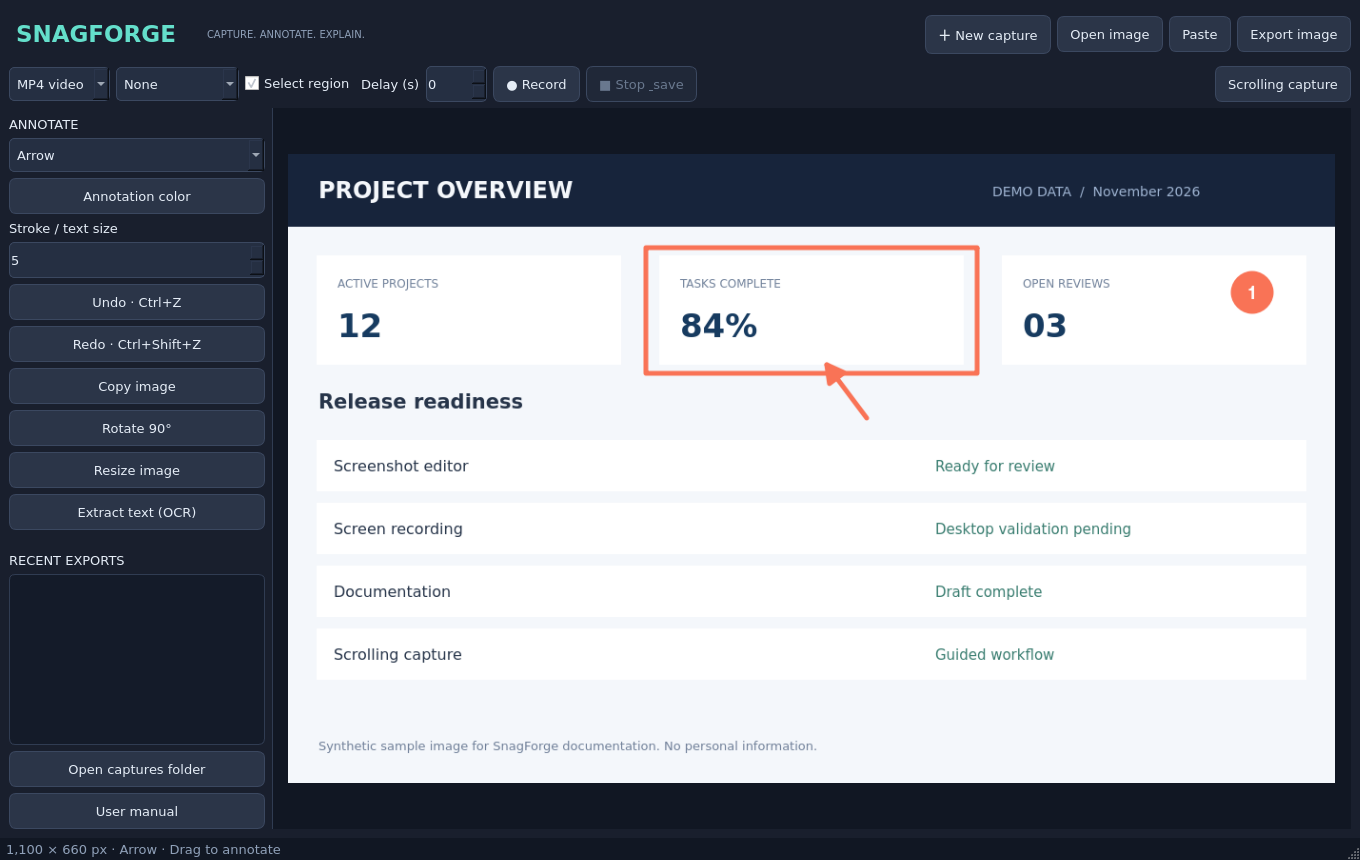
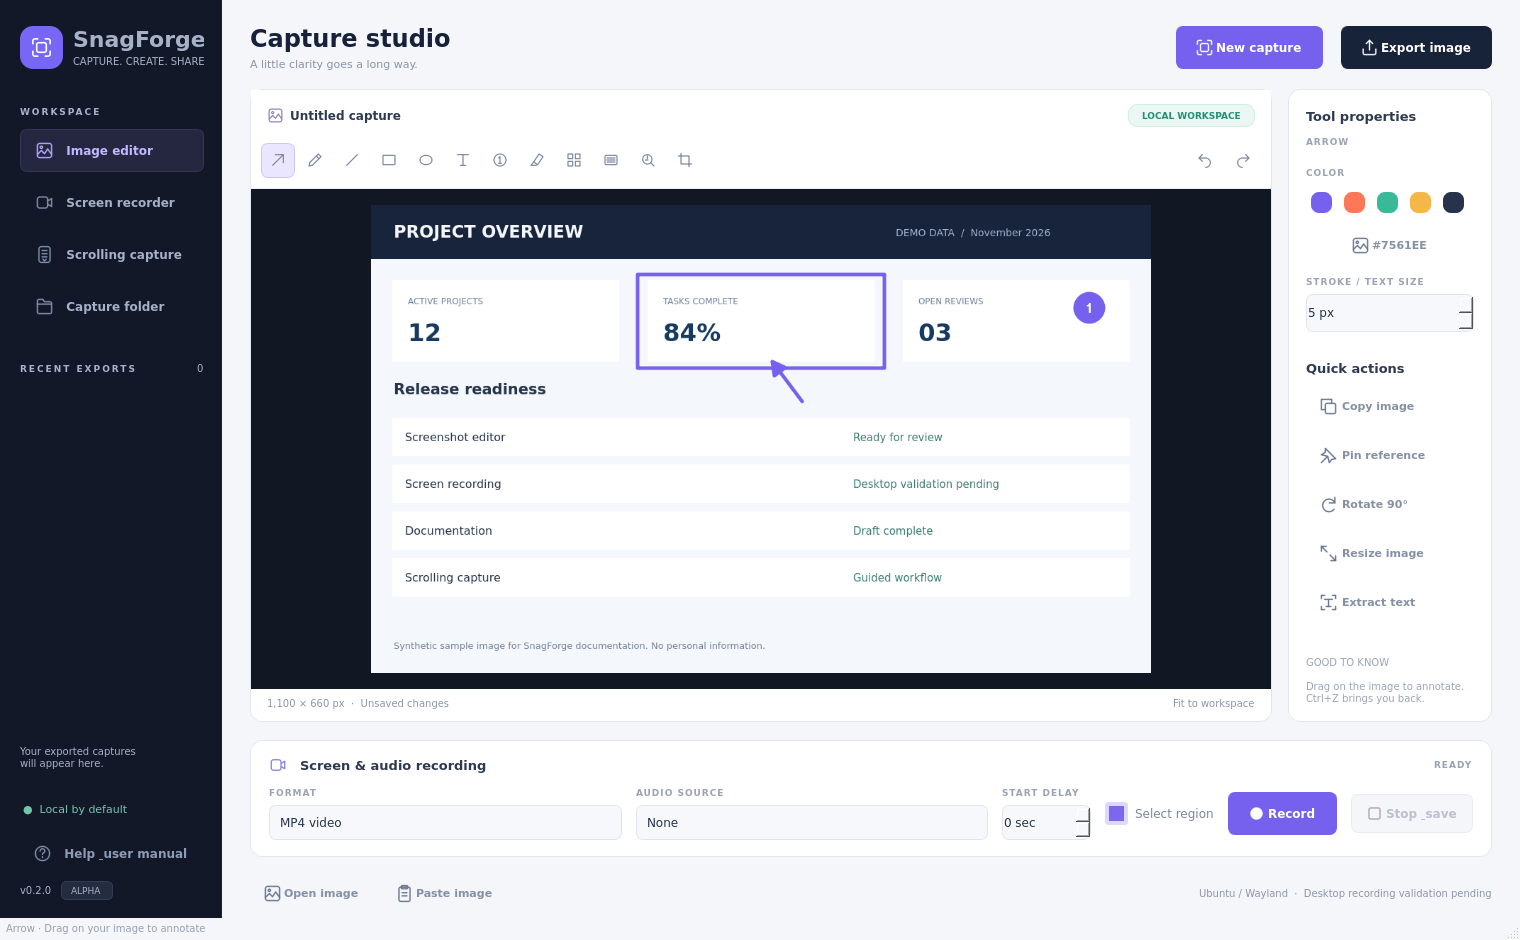
Publish actual Angular desktop screenshots and provenance

diff --git a/docs/screenshots/README.md b/docs/screenshots/README.md
@@ -1,3 +1,15 @@
-# UI screenshots
+# UI screenshot provenance
 
-These screenshots show actual SnagForge Qt widgets rendered offscreen with synthetic sample data. They demonstrate the implemented interface, not successful live desktop recording. Regenerate with `QT_QPA_PLATFORM=offscreen python docs/render_screenshots.py` from the project root.
+All images use synthetic demonstration content and contain no personal captures.
+
+- `01`–`04`: actual native Qt fallback editor and capture dialogs, rendered offscreen with `docs/render_screenshots.py`.
+- `05`–`07`: actual Angular desktop editor, idle recording screen and local workflows, hosted in Qt WebEngine and rendered by `docs/render_angular.py`.
+
+The Angular check verifies bridge connection, image sync, pointer-driven annotation, native clipboard copy and undo/redo. None of these screenshots demonstrates successful live screen/audio recording.
+
+From the project root:
+
+```bash
+QT_QPA_PLATFORM=offscreen python docs/render_screenshots.py
+QT_QPA_PLATFORM=offscreen QT_QUICK_BACKEND=software python docs/render_angular.py
+```
